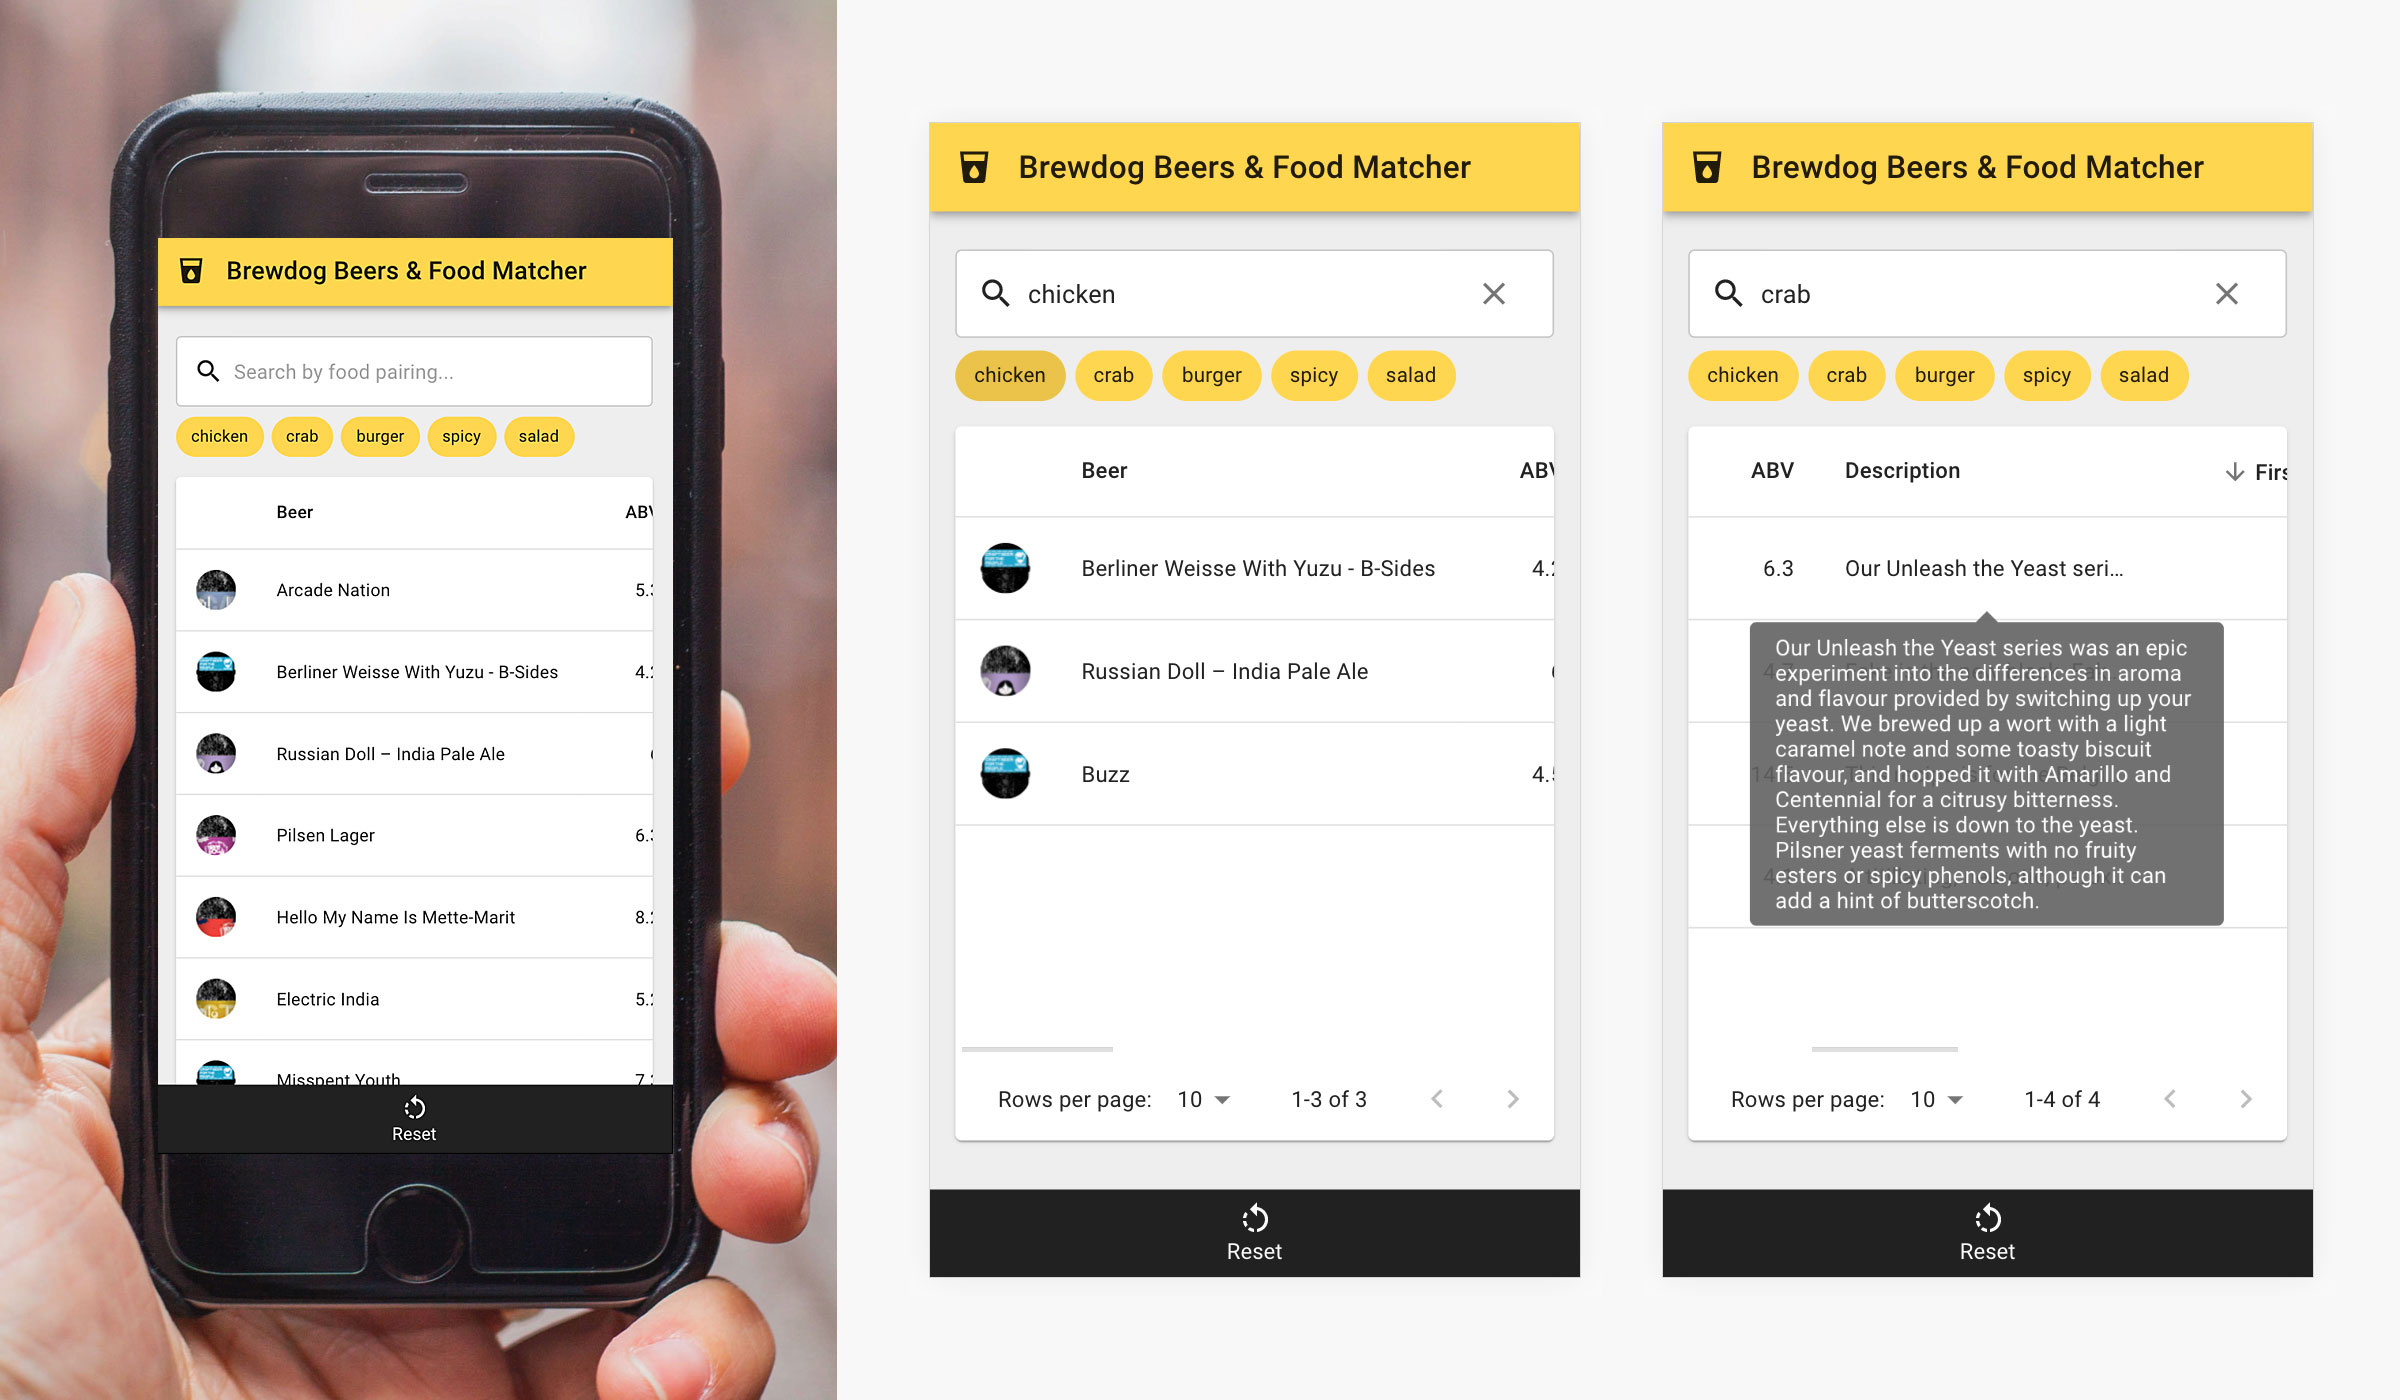
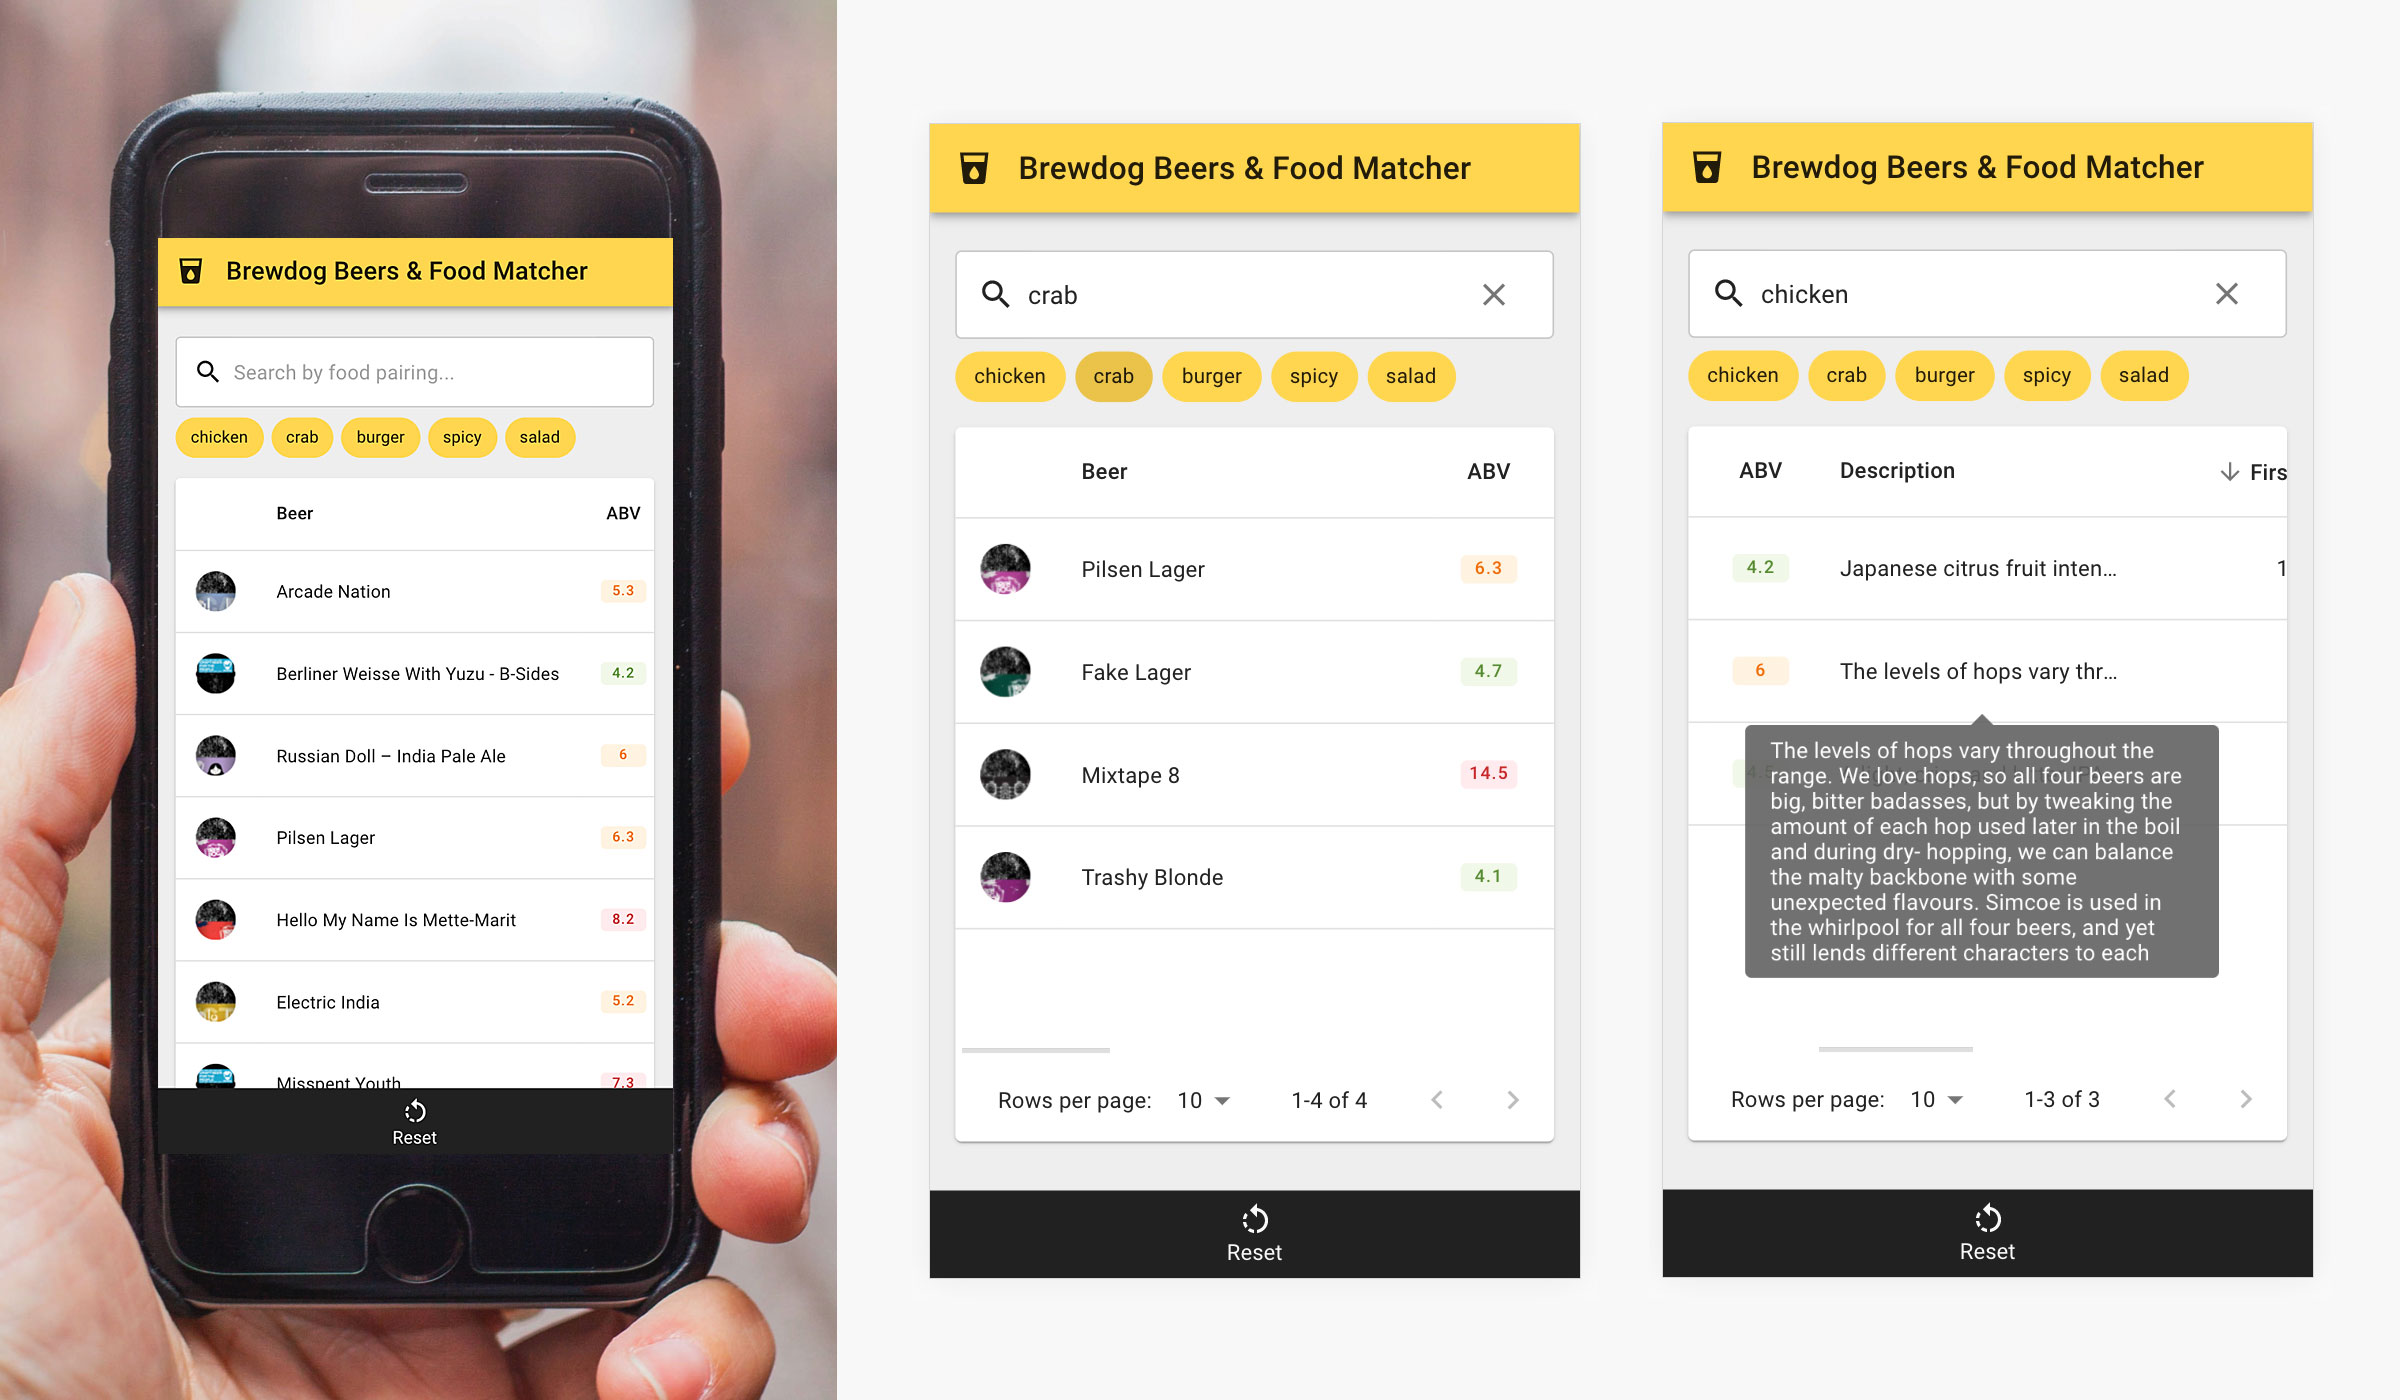
avb

diff --git a/src/components/BeerTable/Abv/Abv.js b/src/components/BeerTable/Abv/Abv.js
@@ -3,7 +3,7 @@ import Box from '@material-ui/core/Box'
 import { makeStyles } from '@material-ui/core/styles'
 import { orange, red, lightGreen, grey } from '@material-ui/core/colors'
 
-const useStyles = makeStyles((theme) => ({
+const useStyles = makeStyles(theme => ({
   tag: {
     borderRadius: 4,
     fontSize: '0.8em',
@@ -12,49 +12,49 @@ const useStyles = makeStyles((theme) => ({
     letterSpacing: 0.7,
     paddingTop: 1,
     paddingBottom: 1,
+    width: 36,
+    textAlign: 'center'
   },
   simple: {
     color: lightGreen[800],
     backgroundColor: lightGreen[50],
-    width: 64,
   },
   moderate: {
     color: orange[800],
     backgroundColor: orange[50],
-    width: 80,
   },
   hazardous: {
     color: red[800],
     backgroundColor: red[50],
-    width: 90,
   },
   default: {
     color: orange[800],
-    backgroundColor: orange[50],
-    width: 90,
+    backgroundColor: grey[50],
   },
 }))
 
-const Complexity = ({ complexity }) => {
+const Abv = ({ abv }) => {
   const classes = useStyles()
-  switch(complexity) {
-  case 'Simple':
-    return <Box className={`${classes.tag} ${classes.simple}`} data-testid='complexity'>
-      {complexity}
+  console.log('abv', abv > 6 && abv <= 8)
+
+
+  if (abv <= 5) {
+    return <Box className={`${classes.tag} ${classes.simple}`} data-testid='abv'>
+      {abv}
     </Box>
-  case 'Moderate':
-    return <Box className={`${classes.tag} ${classes.moderate}`} data-testid='complexity'>
-      {complexity}
+  } else if (abv > 5 && abv <= 7) {
+    return <Box className={`${classes.tag} ${classes.moderate}`} data-testid='abv'>
+      {abv}
     </Box>
-  case 'Hazardous':
-    return <Box className={`${classes.tag} ${classes.hazardous}`} data-testid='complexity'>
-      {complexity}
+  } else if (abv > 7) {
+    return <Box className={`${classes.tag} ${classes.hazardous}`} data-testid='abv'>
+      {abv}
     </Box>
-  default:
+  } else {
     return <Box className={`${classes.tag} ${classes.default}`} data-testid='default'>
-      {complexity}
+      {abv}
     </Box>
   }
 }
 
-export default Complexity
+export default Abv

diff --git a/src/components/BeerTable/Abv/Abv.test.js b/src/components/BeerTable/Abv/Abv.test.js
@@ -1,14 +1,14 @@
 import React from 'react'
 import '@testing-library/jest-dom/extend-expect'
 import initialStoreState from '../../../setupTests'
-import Responsible from './Responsible'
+import Abv from './Abv'
 import { Provider } from 'react-redux'
 import renderer from 'react-test-renderer'
 import configureStore from 'redux-mock-store'
 
 const mockStore = configureStore([])
 
-describe('Responsible Component', () => {
+describe('Abv Component', () => {
   let store, component
 
   beforeEach(() => {
@@ -16,30 +16,31 @@ describe('Responsible Component', () => {
     store.dispatch = jest.fn()
   })
 
-  test('should render name with one part with one initial', () => {
+  test('should render Low', () => {
     component = renderer.create(
       <Provider store={store}>
-        <Responsible responsible='Johnny' />
+        <Abv abv='Low' />
       </Provider>
     )
     expect(component.toJSON()).toMatchSnapshot()
   })
 
-  test('should render name with two parts with two initial', () => {
+  test('should render Medium', () => {
     component = renderer.create(
       <Provider store={store}>
-        <Responsible responsible='John Doe' />
+        <Abv abv='Medium' />
       </Provider>
     )
     expect(component.toJSON()).toMatchSnapshot()
   })
 
-  test('should render name with multiple parts with two initials', () => {
+  test('should render High', () => {
     component = renderer.create(
       <Provider store={store}>
-        <Responsible responsible='John Doe Old Boy' />
+        <Abv abv='High' />
       </Provider>
     )
     expect(component.toJSON()).toMatchSnapshot()
   })
+
 })

diff --git a/src/components/BeerTable/RowContent/RowContent.js b/src/components/BeerTable/RowContent/RowContent.js
@@ -2,6 +2,7 @@ import React from 'react'
 import Moment from 'react-moment'
 import TableCell from '@material-ui/core/TableCell'
 import TableRow from '@material-ui/core/TableRow'
+import Abv from '../Abv/Abv'
 import Box from '@material-ui/core/Box'
 import Avatar from '@material-ui/core/Avatar'
 import { makeStyles } from '@material-ui/core/styles'
@@ -38,7 +39,7 @@ const RowContent = ({ beer }) => {
         {beer.name}
       </TableCell>
       <TableCell className='abv' align='right'>
-        {beer.abv}
+        <Abv abv={beer.abv} />
       </TableCell>
       <TableCell className='description'>
         {beer.description

diff --git a/src/components/BeerTable/HeadContent/beerTableColumns.js b/src/components/BeerTable/HeadContent/beerTableColumns.js
@@ -12,8 +12,8 @@ const beerTableColumns = [
   {
     id: 'abv',
     label: 'ABV',
-    minWidth: 80,
-    align: 'right',
+    minWidth: 60,
+    align: 'center',
   },
   {
     id: 'description',
